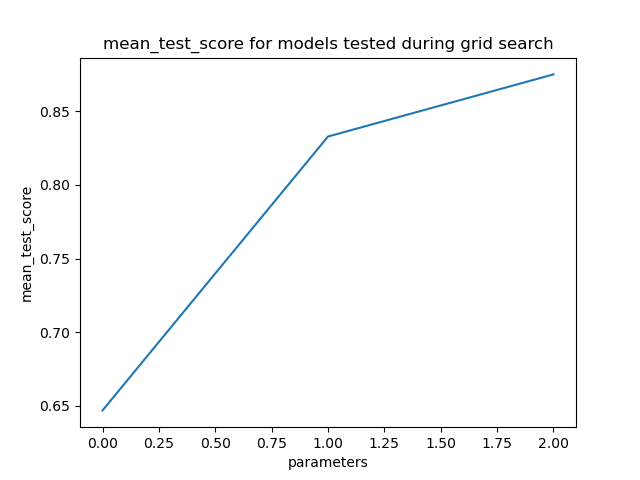
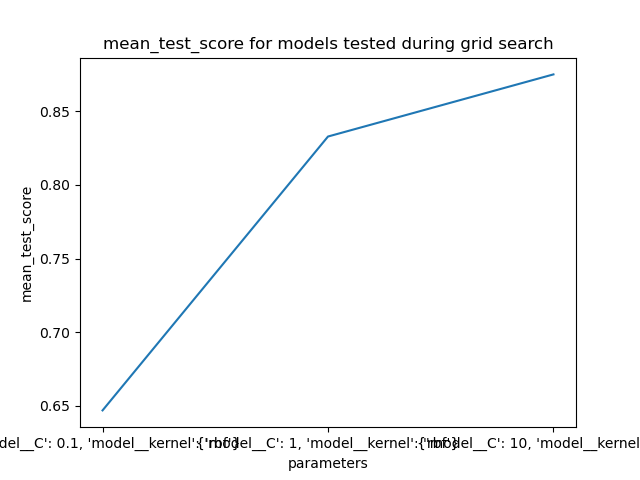
fix/visualisation xlabel as parameters dict

Changed region(s): [[0.0, 0.9062, 1.0, 1.0]]

diff --git a/models/classifier.py b/models/classifier.py
@@ -8,9 +8,12 @@ from sklearn.svm import SVC
 from sklearn.linear_model import LogisticRegression
 
 import matplotlib.pyplot as plt
+import numpy as np
 
 
 import pickle
+
+from utils import format_paramsdict
 
 class model():
     def __init__(self, train_data, test_data, preprocess):
@@ -82,10 +85,13 @@ class SVMModel(model):
         return search.best_estimator_
 
     def visualisation(self, path, metrics='mean_test_score'):
-        'save figure of cv'
+        """save figure of cv"""
 
         fig = plt.figure()
         scores = [x for x in self.gs_result.cv_results_[metrics]]
+        params_values = [y for y in self.gs_result.cv_results_['params']]
+        # params_values = format_paramsdict(params_values)
+        plt.xticks(np.arange(len(params_values)), params_values)
         plt.plot(scores)
         plt.xlabel('parameters')
         plt.ylabel(metrics)
@@ -94,8 +100,6 @@ class SVMModel(model):
         plt.clf()
 
         return None
-
-
 
 if __name__=='__main_':
     pass

diff --git a/utils.py b/utils.py
@@ -1,0 +1,6 @@
+def format_paramsdict(params_dict):
+    for p in params_dict:
+        for v in p.items():
+            p[v[0]] = '\n ' + str(v[1])
+
+    return params_dict
